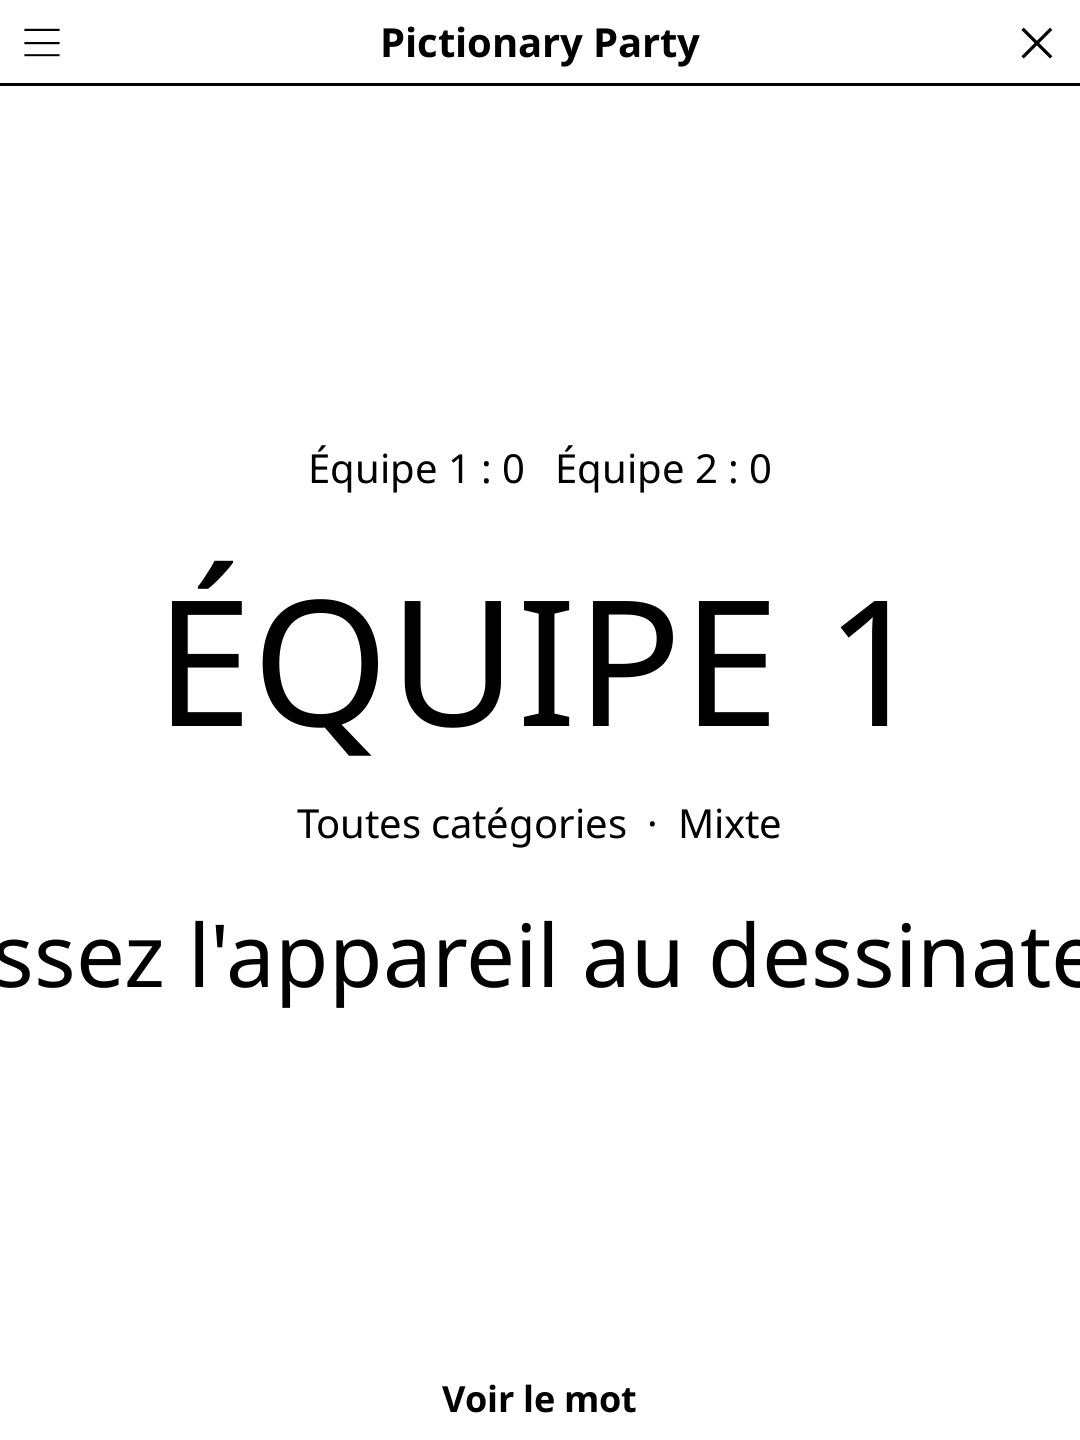
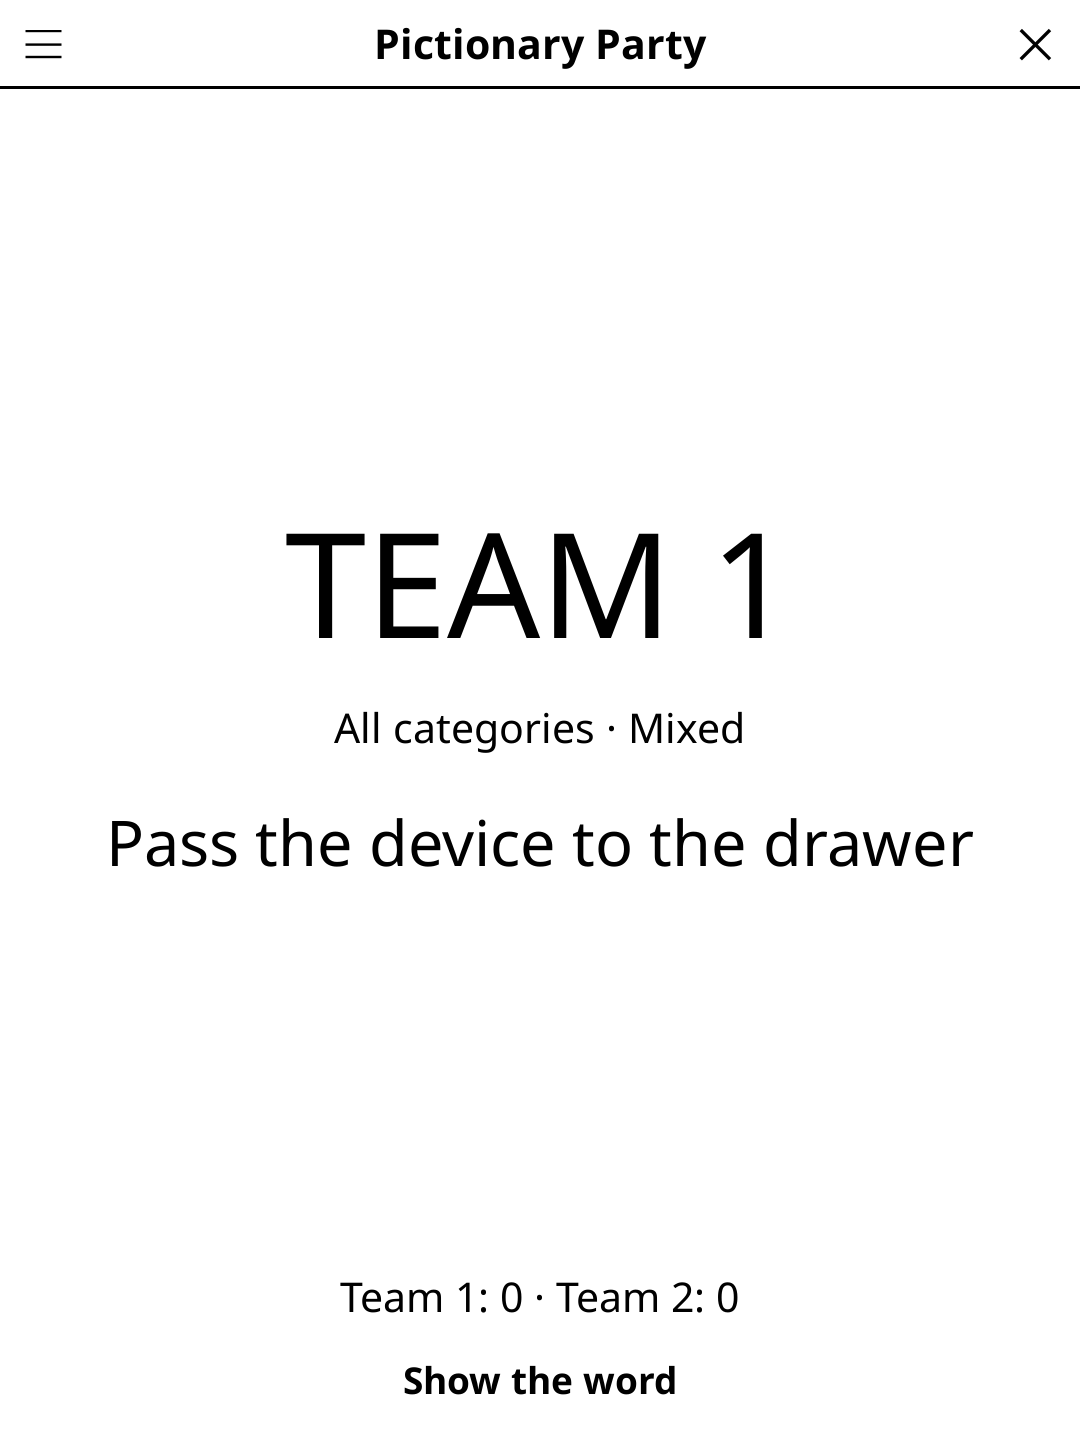
release: 1.2.0 -- redesigned screen, harmonised menu, New game at round end
Screen redesign (full-width action bar, unified pad, status line, larger
board), harmonised title-bar menu, and a "New game" button once the round
is over. See CHANGELOG.md.

diff --git a/CHANGELOG.md b/CHANGELOG.md
@@ -2,6 +2,30 @@
 
 All notable changes to this project will be documented in this file.
 
+## [1.2.0] - 2026-10-30
+
+### Changed
+- The interface text now follows KOReader's language; the Language setting
+  only picks the words to draw. Default team names ("Team 1") follow
+  KOReader's language too.
+- The "Settings" submenu is replaced by direct entries in the title-bar
+  menu, each showing its current value: New game, "Difficulty: …",
+  "Language: …", "Teams: …", "Timer: …", "Category: …", Rules.
+- New game resets the scores and gives the first team the turn; it replaces
+  the old "Reset scores" entry.
+- Redesigned play screen, in line with the other games: a full-width action
+  bar, and the team name, word and timer sized to the room available. The
+  status line shows the scores ("Team 1: 3 · Team 2: 1") and wraps in
+  landscape instead of being cut off.
+- New README screenshot.
+
+### Fixed
+- Text was sized in pixels and then scaled again by the screen DPI, so on a
+  high-DPI reader the team name, word and timer came out about twice too big
+  and ran off the screen edges. Long words and team names now shrink to fit,
+  and "Pass the device to the drawer" wraps instead of being cut off in
+  French.
+
 ## [1.1.15] - 2026-10-07
 
 ### Fixed

diff --git a/README.md b/README.md
@@ -50,7 +50,7 @@ No typing during the game — just the drawer and the device, everyone else watc
 | **Voir le mot / Show the word** | Reveal the word to the drawer + start timer |
 | **✓ Trouvé ! / ✓ Got it!** | Team guessed — +1 point, next team |
 | **✗ Raté / ✗ Missed** | Not guessed — 0 points, next team |
-| **Options** | Language, teams, timer, category, difficulty, reset |
+| **Menu** | New game (resets the scores), Difficulty, Language (word list), Teams, Timer, Category, Rules |
 | **Rules** | Show rules reminder |
 | **Close** | Exit |
 
